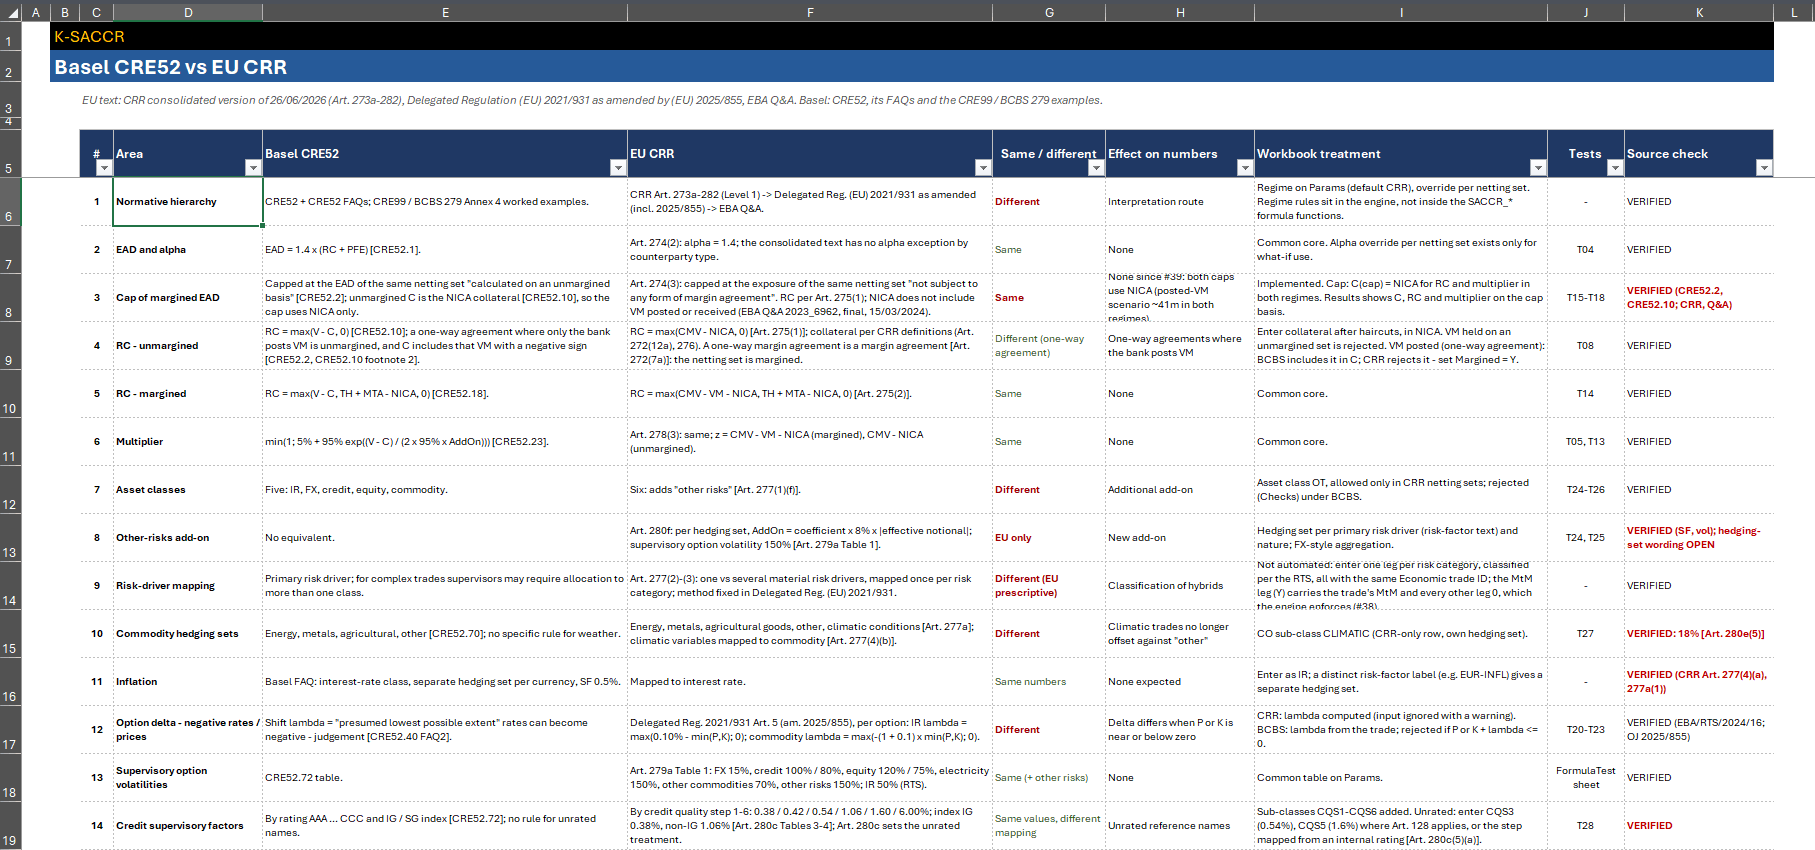
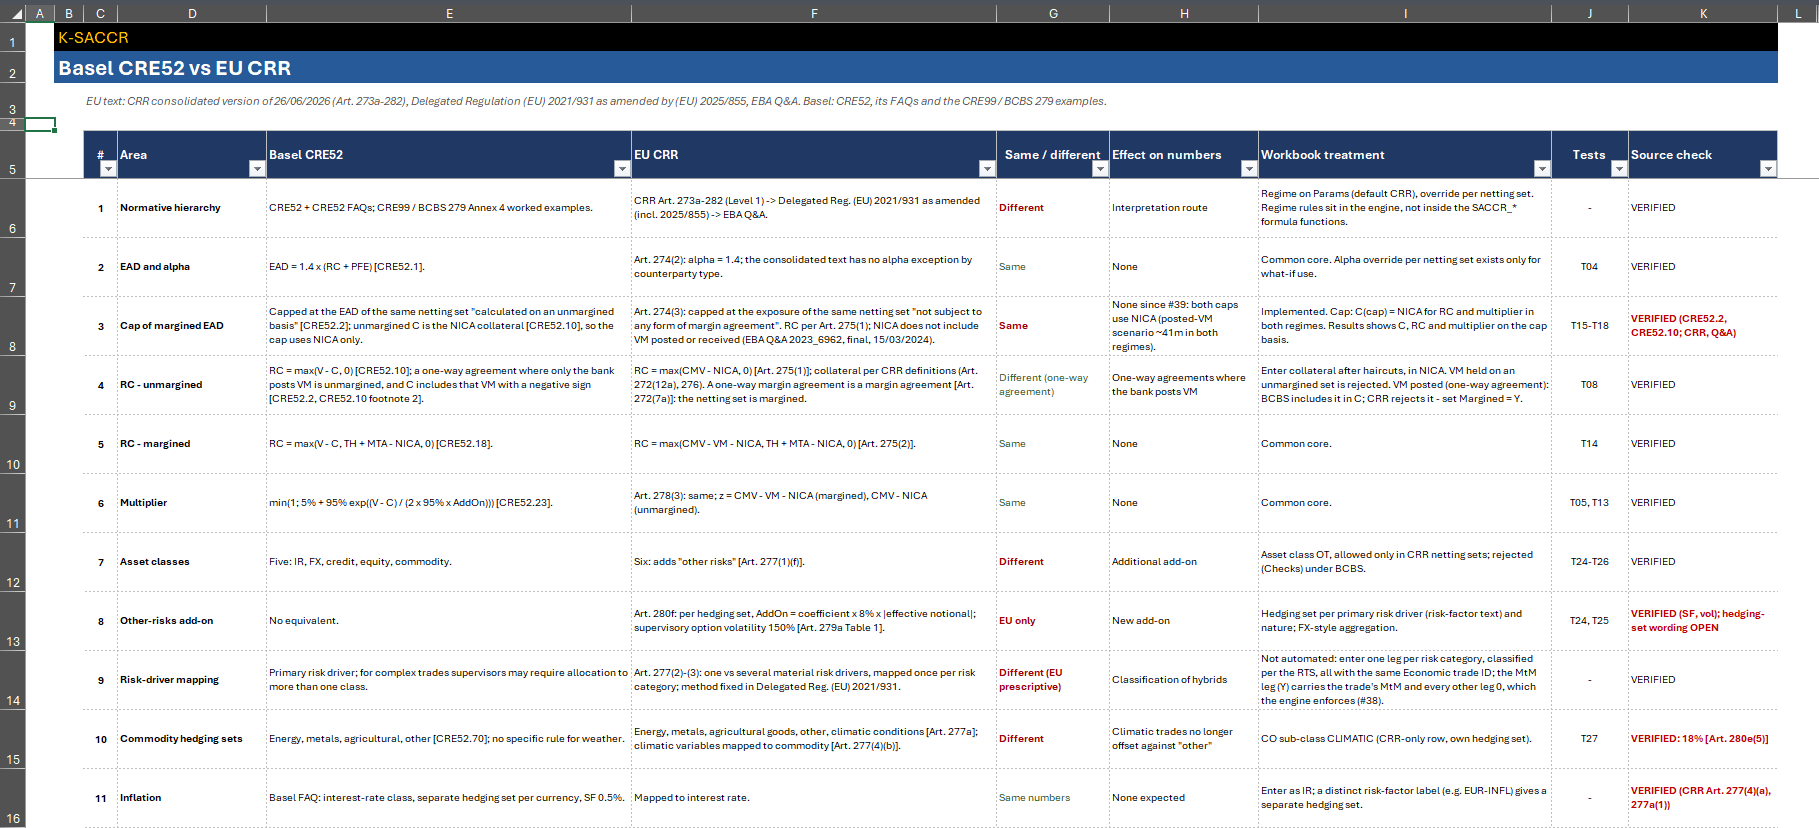
Set the Basel_vs_CRR rows to 50 points and retake its screenshot (#260)
Rows 6 to 100 of Basel_vs_CRR in the template are 50 points high, so the longest comparison cells are no longer cut off; only that sheet's XML changes. SACCR_Basel_vs_CRR.png is replaced by a screenshot at the new height. Validated with python tools/check.py; the template was verified in Excel by the owner.

diff --git a/docs/assets/SCREENSHOTS_SOURCES.md b/docs/assets/SCREENSHOTS_SOURCES.md
@@ -15,7 +15,7 @@ took them in Excel for Windows on 2026-10-16.
 | `SACCR_Checks.png` | The errors of that run: excluded trades and withheld netting sets |
 | `SACCR_BankNettingSets.png`, `SACCR_Reconciliation.png` | A reconciliation: the bank's EAD for BCBS-EX1, copied from Results (MATCH), 5,400 for BCBS-EX3 (DIFFERENCE), a netting set the calculator does not have (MISSING IN CALCULATOR), and the netting sets not in the bank file |
 | `SACCR_TestCatalogue.png`, `SACCR_FormulaTest.png` | The reference-test catalogue and the worksheet-function unit tests, all passing |
-| `SACCR_Basel_vs_CRR.png` | The first 14 rows of the regime comparison |
+| `SACCR_Basel_vs_CRR.png` | The first 11 rows of the regime comparison |
 | `SACCR_Evidence_CSV.png` | The start of the evidence CSV of that run, opened in Notepad: the RUN and PARAMS sections and the start of SF_TABLE |
 
 The input sheets show the template's own content; the output sheets show a run

diff --git a/README.md b/README.md
@@ -453,7 +453,7 @@ them in the workbook.
 
 <p align="center">
   <img width="100%"
-       alt="Basel_vs_CRR sheet, first 14 rows: for each area the Basel CRE52 rule, the EU CRR rule, whether they differ, the effect on the numbers, the workbook treatment, the tests that cover it and the source check"
+       alt="Basel_vs_CRR sheet, first 11 comparison rows: for each area the Basel CRE52 rule, the EU CRR rule, whether they differ, the effect on the numbers, the workbook treatment, the tests that cover it and the source check"
        src="docs/assets/SACCR_Basel_vs_CRR.png">
 </p>
 
